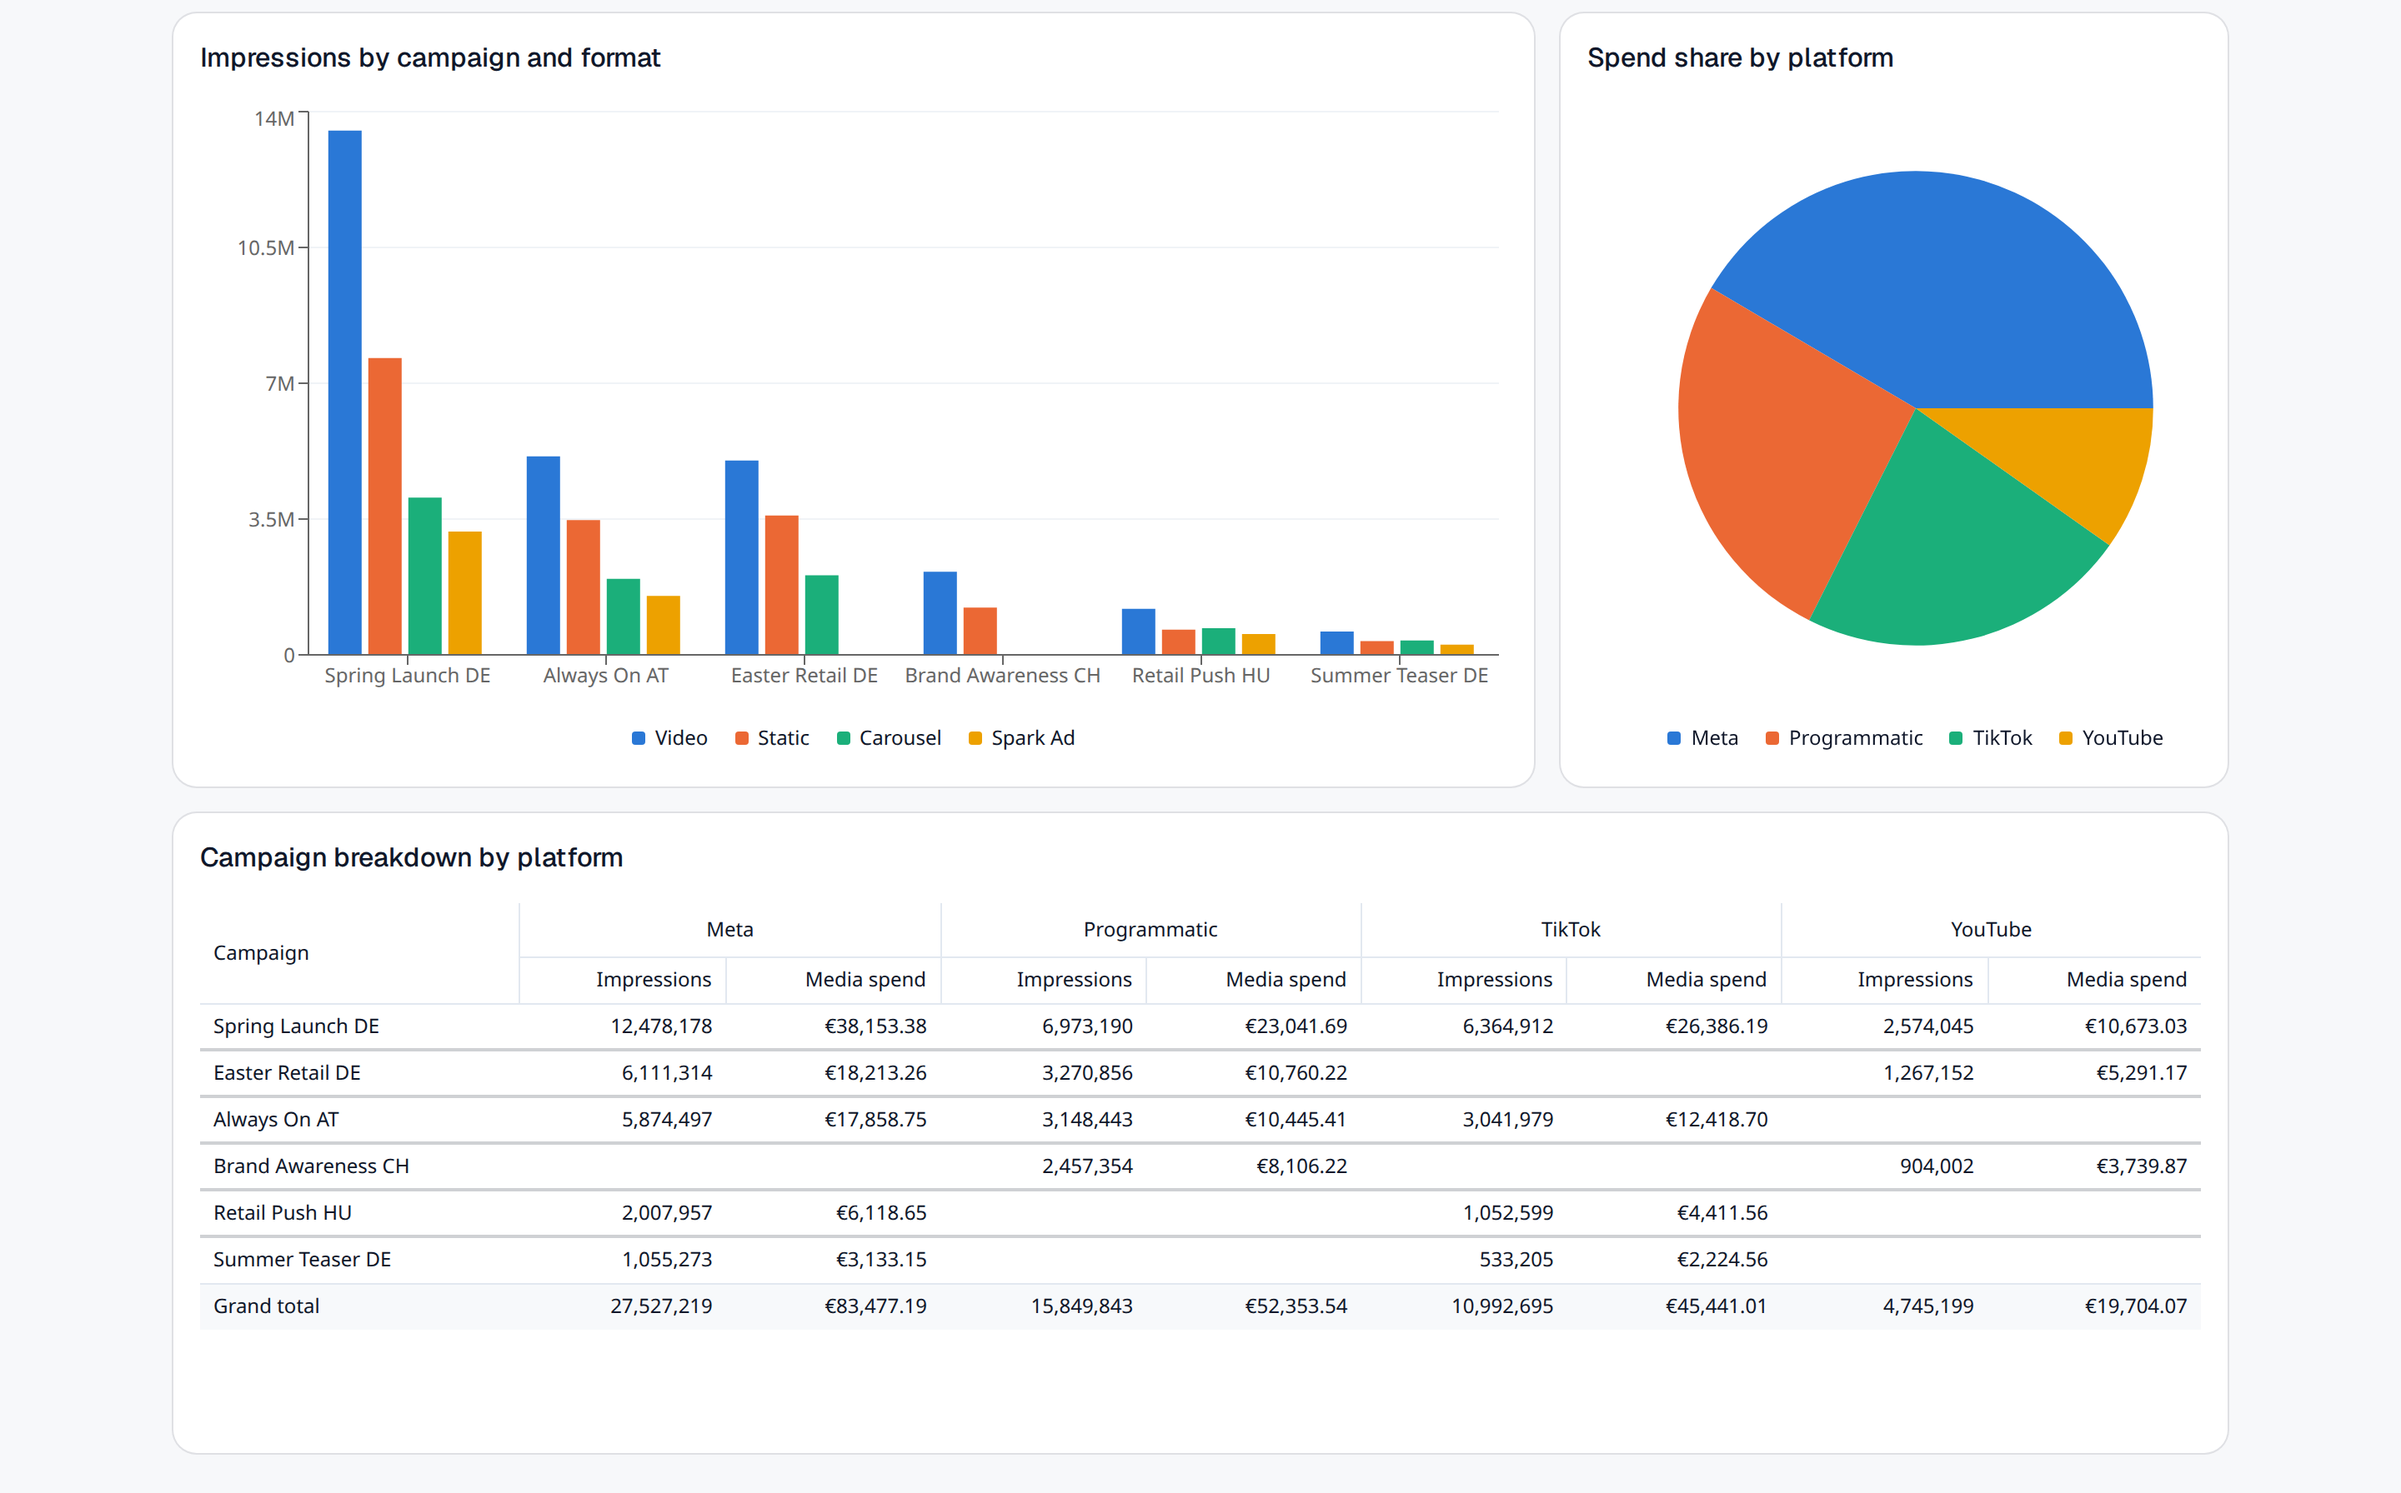
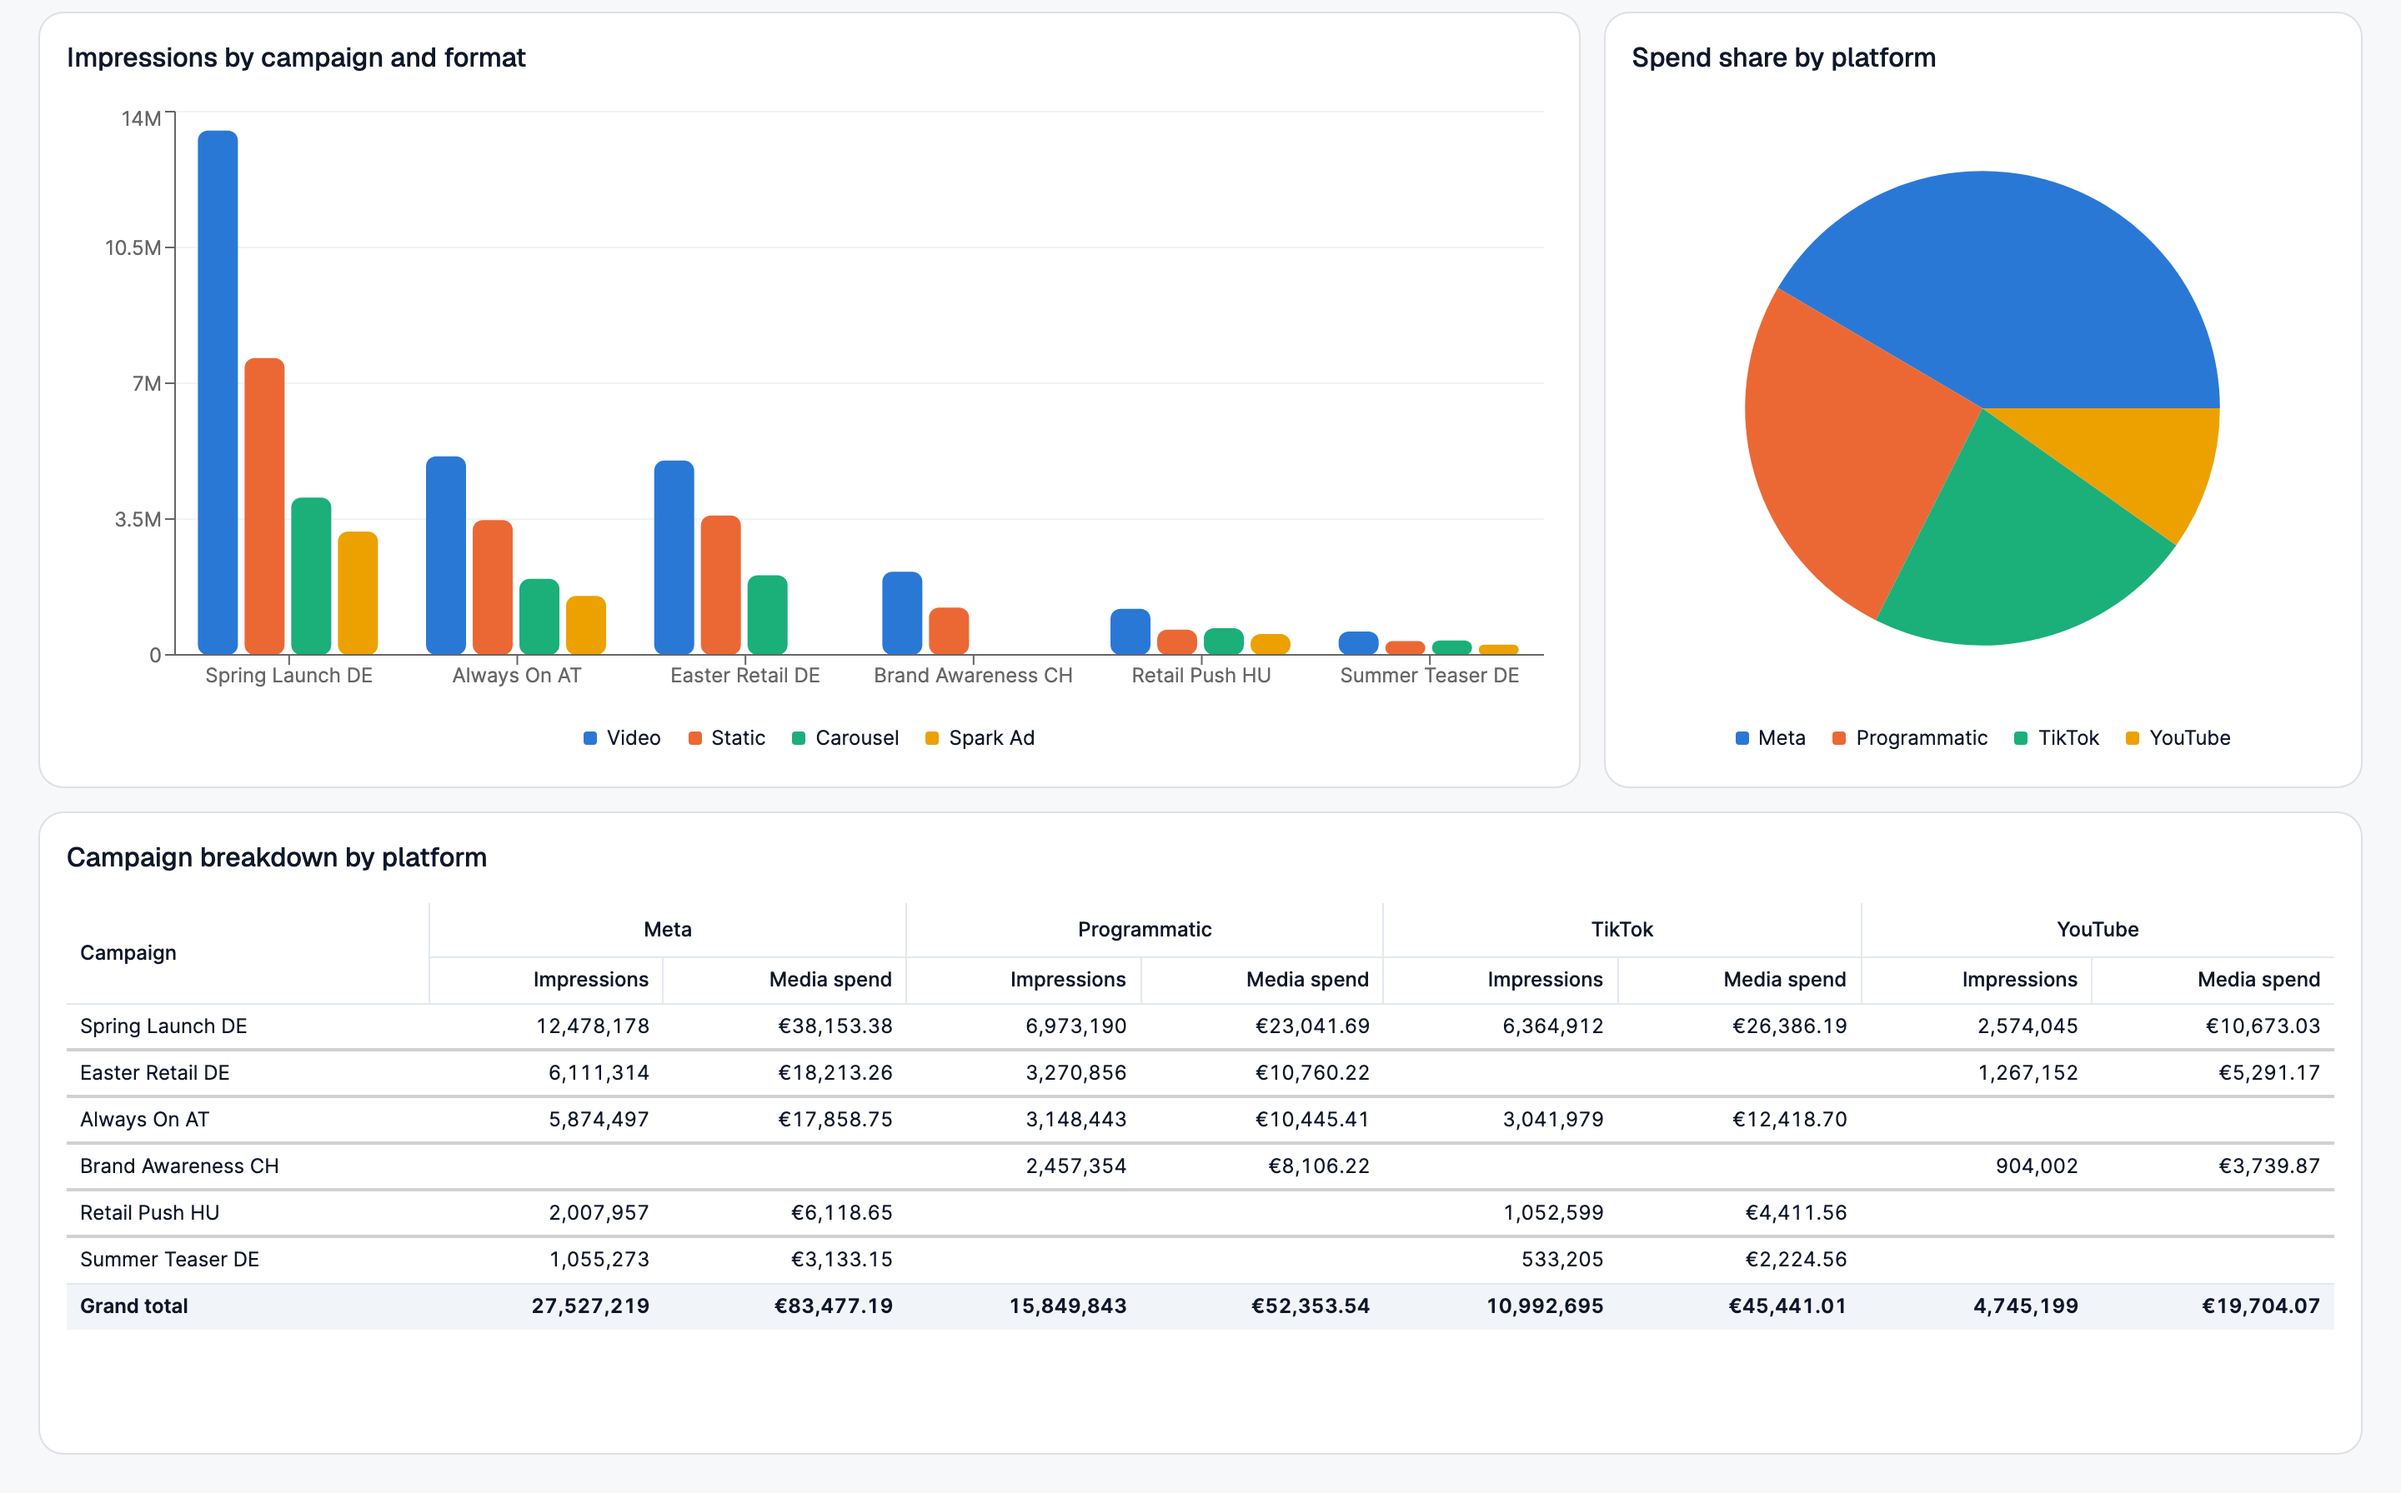
feat: add dark landing page previews
Summary:
- serve theme-matched landing page screenshots in light and dark mode
- capture both themes and keep repeated calculated-field setup idempotent
- reduce dashboard filter controls to a compact single-row height

Rationale:
- keep product previews visually consistent with the selected site theme
- remove unused vertical space from controls and their captured dashboard

Tests:
- bun run fmt:check
- bun run lint
- bun run typecheck
- bun run test (259 passed)

AI-Assisted: true
AI-Agent: codex
AI-Model: openai/gpt-5.6-sol

diff --git a/scripts/capture-landing.ts b/scripts/capture-landing.ts
@@ -3,7 +3,7 @@
  *
  * It signs in to the Clerk development instance with a sign-in token, uploads the generated demo
  * export, builds a dashboard that uses the widget types the product actually ships, shares it, and
- * captures the shared view plus the field metadata screen.
+ * captures the shared view plus the field metadata screen, each in the light and the dark theme.
  *
  *   bun run dev                     # in another shell, or set RUNDOWN_BASE_URL
  *   bun run scripts/capture-landing.ts
@@ -22,6 +22,8 @@ const clerkSecretKey = process.env.CLERK_SECRET_KEY;
 const outputDirectory = 'public/landing';
 
 const viewport = { width: 1440, height: 1000 };
+const themes = ['light', 'dark'] as const;
+type Theme = (typeof themes)[number];
 const deviceScaleFactor = 2;
 const dashboardName = 'Acme Media, Q1 delivery';
 const datasourceName = 'Campaign delivery';
@@ -71,8 +73,11 @@ async function capture(browser: Browser) {
   });
 
   await mkdir(outputDirectory, { recursive: true });
-  await captureDashboard(page, share.token);
-  await captureFieldMetadata(page, source.id);
+  for (const theme of themes) {
+    await useTheme(page, theme);
+    await captureDashboard(page, share.token, theme);
+    await captureFieldMetadata(page, source.id, theme);
+  }
   await context.close();
 }
 
@@ -187,9 +192,21 @@ async function describeFields(page: Page, dataSourceId: string) {
     await callApi(page, { action: 'updateFieldMetadata', dataSourceId, columnName, patch });
 
   // One calculated field, so the screen shows a formula sitting next to the registered columns.
+  // A repeat run reuses the datasource, so the field has to be updated instead of inserted again.
+  const described = await callApi<{ calculatedFields: Array<{ id: string; label: string }> }>(
+    page,
+    {
+      action: 'describeDatasource',
+      dataSourceId,
+    },
+  );
+  const calculatedFieldId = described.calculatedFields.find(
+    (entry) => entry.label === 'Effective CPM',
+  )?.id;
   await callApi(page, {
     action: 'upsertCalculatedField',
     dataSourceId,
+    ...(calculatedFieldId ? { id: calculatedFieldId } : {}),
     name: 'Effective CPM',
     expression: 'media_spend / nullif(impressions, 0) * 1000',
     role: 'metric',
@@ -231,7 +248,7 @@ async function buildDashboard(
     placements.push({ widgetId: widget.id, placement });
   };
 
-  await add({ type: 'dateControl', defaultDateRange: dateRange }, at(0, 0, 4, 2));
+  await add({ type: 'dateControl', defaultDateRange: dateRange }, at(0, 0, 4, 1));
   for (const [index, [columnName, label]] of (
     [
       ['Market', 'Market'],
@@ -247,7 +264,7 @@ async function buildDashboard(
         allowMultiple: true,
         optionsSortDirection: 'asc',
       },
-      at(4 + index * 4, 0, 4, 2),
+      at(4 + index * 4, 0, 4, 1),
     );
 
   await add(
@@ -258,7 +275,7 @@ async function buildDashboard(
       metric: sum('Impressions', 'number'),
       comparison: { mode: 'previousPeriod' },
     },
-    at(0, 2, 3, 2),
+    at(0, 1, 3, 2),
   );
   await add(
     {
@@ -268,7 +285,7 @@ async function buildDashboard(
       metric: sum('Clicks', 'number'),
       comparison: { mode: 'previousPeriod' },
     },
-    at(3, 2, 3, 2),
+    at(3, 1, 3, 2),
   );
   await add(
     {
@@ -278,7 +295,7 @@ async function buildDashboard(
       metric: sum('MediaSpend', 'currency'),
       comparison: { mode: 'previousPeriod' },
     },
-    at(6, 2, 3, 2),
+    at(6, 1, 3, 2),
   );
   await add(
     {
@@ -292,7 +309,7 @@ async function buildDashboard(
         conditionalFormat: [{ comparator: 'gte', value: 0.004, color: 'positive' }],
       },
     },
-    at(9, 2, 3, 2),
+    at(9, 1, 3, 2),
   );
 
   // Volume and rate move independently, so the second axis earns its place instead of tracing
@@ -312,7 +329,7 @@ async function buildDashboard(
         },
       ],
     },
-    at(0, 4, 8, 6),
+    at(0, 3, 8, 6),
   );
   await add(
     {
@@ -322,7 +339,7 @@ async function buildDashboard(
       metric: sum('MediaSpend', 'currency'),
       upperLimit: { kind: 'manual', value: 260_000 },
     },
-    at(8, 4, 4, 3),
+    at(8, 3, 4, 3),
   );
   await add(
     {
@@ -334,7 +351,7 @@ async function buildDashboard(
           'moves to TikTok video in April.',
       },
     },
-    at(8, 7, 4, 3),
+    at(8, 6, 4, 3),
   );
 
   await add(
@@ -348,7 +365,7 @@ async function buildDashboard(
       sort: [{ target: { kind: 'metric', index: 0 }, direction: 'desc' }],
       limit: 24,
     },
-    at(0, 10, 8, 6),
+    at(0, 9, 8, 6),
   );
   await add(
     {
@@ -359,7 +376,7 @@ async function buildDashboard(
       dimension: { fieldId: field('Platform').id },
       sort: [{ target: { kind: 'metric', index: 0 }, direction: 'desc' }],
     },
-    at(8, 10, 4, 6),
+    at(8, 9, 4, 6),
   );
 
   await add(
@@ -374,13 +391,13 @@ async function buildDashboard(
       showSummaryRow: true,
       sort: [{ target: { kind: 'metric', index: 0 }, direction: 'desc' }],
     },
-    at(0, 16, 12, 5),
+    at(0, 15, 12, 5),
   );
 
   await callApi(page, {
     action: 'updateLayout',
     dashboardId: dashboard.id,
-    canvasRows: 23,
+    canvasRows: 22,
     placements,
   });
   return dashboard.id;
@@ -390,24 +407,24 @@ async function buildDashboard(
  * The hero shows the controls, headline numbers and trend; the second image picks up where it
  * stops, so the two read as one dashboard scrolled down rather than two unrelated products.
  */
-async function captureDashboard(page: Page, shareToken: string) {
+async function captureDashboard(page: Page, shareToken: string, theme: Theme) {
   await page.goto(`${baseUrl}/share/${shareToken}`);
   await settle(page);
   const split = await topOf(page, 'Impressions by campaign and format');
   const end = await bottomOf(page, 'Campaign breakdown by platform');
   await page.screenshot({
-    path: `${outputDirectory}/dashboard.png`,
+    path: imagePath('dashboard', theme),
     fullPage: true,
     clip: { x: 0, y: 0, width: viewport.width, height: split - 8 },
   });
   await page.screenshot({
-    path: `${outputDirectory}/dashboard-breakdown.png`,
+    path: imagePath('dashboard-breakdown', theme),
     fullPage: true,
     clip: { x: 0, y: split - 8, width: viewport.width, height: end + 24 - (split - 8) },
   });
 }
 
-async function captureFieldMetadata(page: Page, dataSourceId: string) {
+async function captureFieldMetadata(page: Page, dataSourceId: string, theme: Theme) {
   await page.goto(`${baseUrl}/datasources/${dataSourceId}`);
   await settle(page);
   // Cutting on the last field row keeps the image from ending inside a half-rendered one.
@@ -417,10 +434,25 @@ async function captureFieldMetadata(page: Page, dataSourceId: string) {
     .boundingBox();
   if (!lastRow) throw new Error('The calculated field row never rendered.');
   await page.screenshot({
-    path: `${outputDirectory}/field-metadata.png`,
+    path: imagePath('field-metadata', theme),
     fullPage: true,
     clip: { x: 0, y: 0, width: viewport.width, height: lastRow.y + lastRow.height },
   });
+}
+
+/**
+ * The app reads the stored theme before first paint, so writing it and navigating afterwards gives
+ * a genuine dark render: chart colours are read at render time and would keep their light values
+ * if the class were only toggled on an already painted page.
+ */
+async function useTheme(page: Page, theme: Theme) {
+  await page.goto(baseUrl);
+  await page.evaluate((value) => localStorage.setItem('theme', value), theme);
+}
+
+/** The landing page pairs each image with its dark twin, named after the light one. */
+function imagePath(name: string, theme: Theme) {
+  return `${outputDirectory}/${name}${theme === 'dark' ? '-dark' : ''}.png`;
 }
 
 /** Waits for every widget to have finished querying, then lets the chart animations land. */

diff --git a/src/components/landing-page.tsx b/src/components/landing-page.tsx
@@ -1,6 +1,7 @@
 import { SignInAction, SignUpAction } from '#/components/auth-actions';
 import { BrowserFrame } from '#/components/browser-frame';
 import { Button } from '#/components/ui/button';
+import { cn } from '#/lib/utils';
 import { usePageTitle } from '#/lib/page-title';
 
 const claims = [
@@ -17,6 +18,47 @@ const claims = [
     body: 'Send a link or grant a colleague access. Viewers get the stored widgets and controls and nothing else.',
   },
 ];
+
+/**
+ * Shows the screenshot that matches the active theme. The theme is a class on the document rather
+ * than a media query, so CSS picks the variant the same way the header icons do and the server
+ * needs no theme state. `bun run scripts/capture-landing.ts` writes both files.
+ *
+ * Only the visible image is in the accessibility tree, and the hidden one is never fetched unless
+ * `priority` opts it out of lazy loading, which the hero needs for its own paint.
+ */
+function Screenshot({
+  name,
+  alt,
+  width,
+  height,
+  className,
+  priority = false,
+}: {
+  name: string;
+  alt: string;
+  width: number;
+  height: number;
+  className?: string;
+  priority?: boolean;
+}) {
+  const shared = {
+    alt,
+    width,
+    height,
+    ...(priority ? ({ fetchPriority: 'high' } as const) : ({ loading: 'lazy' } as const)),
+  };
+  return (
+    <>
+      <img src={`/landing/${name}.png`} className={cn('dark:hidden', className)} {...shared} />
+      <img
+        src={`/landing/${name}-dark.png`}
+        className={cn('hidden dark:block', className)}
+        {...shared}
+      />
+    </>
+  );
+}
 
 export function LandingPage() {
   usePageTitle();
@@ -50,12 +92,12 @@ export function LandingPage() {
           url="rundown.workers.dev/dashboards/q1-delivery"
           className="reveal-on-scroll mt-14"
         >
-          <img
-            src="/landing/dashboard.png"
+          <Screenshot
+            name="dashboard"
             alt="A Rundown dashboard with a date range and two filter controls, impressions, clicks, media spend and click-through rate against the previous period, a chart pairing impressions with click-through rate, a gauge for media spend against plan and a written note."
             width={2880}
-            height={1792}
-            fetchPriority="high"
+            height={1632}
+            priority
             className="h-auto w-full"
           />
         </BrowserFrame>
@@ -83,12 +125,11 @@ export function LandingPage() {
           </p>
         </div>
         {/* The image continues the dashboard above, so it carries no browser chrome of its own. */}
-        <img
-          src="/landing/dashboard-breakdown.png"
+        <Screenshot
+          name="dashboard-breakdown"
           alt="Impressions by campaign and ad format as grouped bars, spend share by platform as a pie chart, and a pivot table of impressions and media spend per campaign and platform ending in a grand total row."
           width={2880}
           height={1792}
-          loading="lazy"
           className="reveal-on-scroll mt-10 h-auto w-full rounded-xl border"
         />
       </section>
@@ -107,12 +148,11 @@ export function LandingPage() {
           url="rundown.workers.dev/datasources/campaign-delivery"
           className="reveal-on-scroll mt-10"
         >
-          <img
-            src="/landing/field-metadata.png"
+          <Screenshot
+            name="field-metadata"
             alt="The Rundown datasource screen listing each column of a registered file with its label, source, role, type and description, ending with a calculated field."
             width={2880}
             height={1960}
-            loading="lazy"
             className="h-auto max-h-[32rem] w-full object-cover object-top"
           />
         </BrowserFrame>

diff --git a/src/components/dashboard-builder.tsx b/src/components/dashboard-builder.tsx
@@ -171,12 +171,13 @@ const catalog: Array<{
   { type: 'bar', label: 'Bar chart', icon: BarChart3Icon, size: { width: 8, height: 5 } },
   { type: 'pie', label: 'Pie chart', icon: PieChartIcon, size: { width: 6, height: 5 } },
   { type: 'table', label: 'Table', icon: Table2Icon, size: { width: 8, height: 5 } },
-  { type: 'control', label: 'Filter control', icon: ListFilterIcon, size: { width: 4, height: 2 } },
+  // Controls hold a label and one input, so a single row fits them without leaving dead space.
+  { type: 'control', label: 'Filter control', icon: ListFilterIcon, size: { width: 4, height: 1 } },
   {
     type: 'dateControl',
     label: 'Date control',
     icon: CalendarDaysIcon,
-    size: { width: 4, height: 2 },
+    size: { width: 4, height: 1 },
   },
   { type: 'text', label: 'Text', icon: CaseUpperIcon, size: { width: 6, height: 2 } },
 ];
